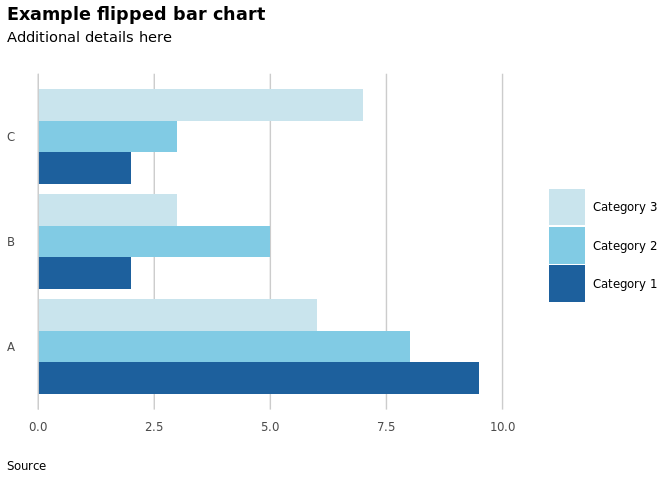
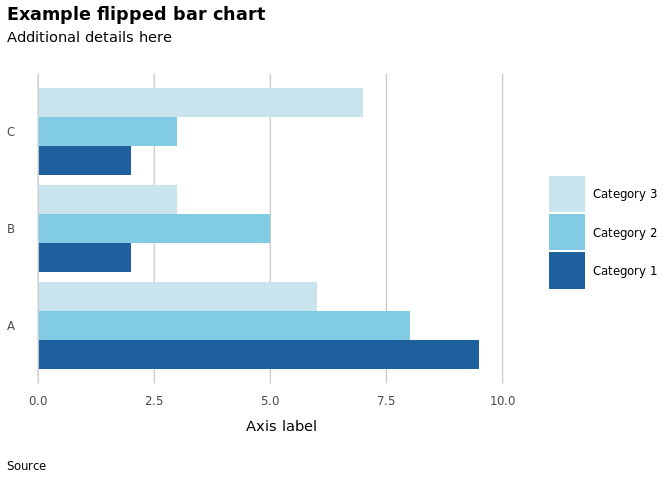
Edit readme

diff --git a/README.md b/README.md
@@ -47,29 +47,28 @@ To obtain the hex codes for individual colours:
 To preview palettes:
 
   - `swatch()` displays a preview of a vector of colour hex codes;
-  - `multiswatch()` displays all the palettes comprising a specified
-    colour scheme.
+  - `multiswatch()` displays all the palettes within a colour scheme.
 
-See the function help files for details and examples for all the package
-functions.
+The function help pages (accessed using `?` or `help()` in RStudio)
+contain full details and examples.
 
 ## GSS theme
 
 The main principle behind `theme_gss()` is to simplify the chart and
 remove unecessary formatting. The theme allows for a main title plus a
-subtitle for additional statistical details. The data source can be
-shown in the caption below the chart. Illustration charts are shown in
-the examples section below.
+subtitle for statistical details. The data source can be shown in the
+caption below the chart.
 
-Axis labels should be horizontal according to both the GSS guidance and
-[ONS web accessibility
+Axis labels should be horizontal according to both the [GSS
+guidance](https://gss.civilservice.gov.uk/policy-store/introduction-to-data-visualisation/#section-2:~:text=Things%20to%20include%20with%20your%20graph)
+and [ONS web accessibility
 guidance](https://style.ons.gov.uk/writing-for-the-web/web-accessibility/accessible-charts/).
 To that end, `theme_gss()` suppresses the ggplot2 y axis label; a label
-can instead be included within the ggplot2 subtitle if needed. This is
-demonstrated by the second of the example charts.
+can instead be included within the ggplot2 subtitle if required. This is
+demonstrated by the second of the example charts [below](#examples).
 
-`theme_gss()` includes arguments to show or hide the x axis label and x
-axis tick marks. Setting the argument `flipped = TRUE` reverses the x
+`theme_gss()` includes parameters to show or hide the x axis label and x
+axis tick marks. Setting the parameter `flipped = TRUE` reverses the x
 and y axes for use with `coord_flip()`.
 
 ## Colour palettes
@@ -77,45 +76,50 @@ and y axes for use with `coord_flip()`.
 The package provides colour palettes for discrete data, grouped into
 several colour schemes. There are two types of colour scheme: vibrant
 and muted. The vibrant schemes use MoJ corporate colours and are
-recommended for lines or points. The muted schemes are intended for
-shading areas, such as for bar charts, in line with the [GSS guidance on
-the use of
+recommended for lines or points. The muted schemes are based on MoJ
+colours but with reduced saturation. They are intended for shading
+areas, such as for bar charts, in line with the [GSS guidance on the use
+of
 colour](https://gss.civilservice.gov.uk/policy-store/introduction-to-data-visualisation/#section-9).
 Each colour scheme consists of six palettes, containing from one to six
-colours. Consider the accessibility implications if you need more
-colours than that (see below).
+colours. Six colours is probably around the maximum to keep charts clear
+and accessible (see [below](#accessibility)).
 
 For sequential palettes or continuous data, you could look at the
-[inbuilt ggplot2 options](https://ggplot2-book.org/scale-colour.html),
+inbuilt [ggplot2 options](https://ggplot2-book.org/scale-colour.html),
 or try the
 [colorspace](https://cran.r-project.org/web/packages/colorspace/vignettes/colorspace.html)
 package.
 
-To return a palette as a vector, use the `mojchart_palette()` function,
-with the number of colours needed and the name of a colour scheme. The
-`swatch()` function can be used to show a preview.
+`scheme_names()` shows the available colour schemes.
 
 ``` r
 library(mojchart)
+scheme_names()
+#> [1] "muted1"   "muted2"   "muted3"   "vibrant1" "vibrant2"
+```
+
+You can use `scale_colour_moj()` or `scale_fill_moj()` to apply a
+palette to a ggplot2 chart, passing the number of colours and the name
+of a colour scheme as arguments. There is an optional `order` parameter
+to change the colour order.
+
+To obtain a palette as a vector, use `mojchart_palette()`, again
+specifying the number of colours and the colour scheme. The `swatch()`
+function displays a preview.
+
+``` r
 pal <- mojchart_palette(n = 5, scheme = "muted3")
+pal
+#> mojdarkblue    midblue2       teal2       pink1     yellow1 
+#>   "#003057"   "#2972a3"   "#59a6a4"   "#f3bee0"   "#feebb3"
 swatch(pal)
 ```
 
 <img src="man/figures/README-swatch-1.png" width="50%" style="display: block; margin: auto;" />
 
-   
-`scheme_names()` shows the available colour schemes.
-
-``` r
-scheme_names()
-#> [1] "muted1"   "muted2"   "muted3"   "vibrant1" "vibrant2"
-```
-
 The `multiswatch()` function shows all the palettes within a scheme, as
 shown [here](man/additional-documentation/schemes.md) for each scheme.
-
-`scale_colour_moj()` and `scale_fill_moj()` can be used to apply a
-palette to a ggplot2 chart, as shown in the examples section below.
 
 ## Accessing individual colours
 
@@ -154,10 +158,10 @@ possible rather than using a legend. The
 [directlabels](http://directlabels.r-forge.r-project.org/) package
 provides one way to implement this in R.
 
-Below are two resources to help assess colour-blindness accessibility.  
+Below are two resources to help assess colour blindness accessibility.  
 
   - To simulate how an image file will appear to individuals with forms
-    of colour-blindness:
+    of colour blindness:
     <https://www.color-blindness.com/coblis-color-blindness-simulator/>.
   - To simulate the appearance of a palette of colour hex codes:
     <https://davidmathlogic.com/colorblind/>.
@@ -225,7 +229,7 @@ ggplot(bars(3), aes(x = col1, y = col3, fill = col2)) +
   scale_y_continuous(expand = expansion(mult = c(0, 0.05))) +
   expand_limits(y = 10) +
   guides(fill = guide_legend(reverse = TRUE)) +
-  theme_gss(flipped = TRUE, xlabel = FALSE) +
+  theme_gss(flipped = TRUE, xlabel = TRUE) +
   scale_fill_moj(3, scheme = "muted1")
 ```
 
